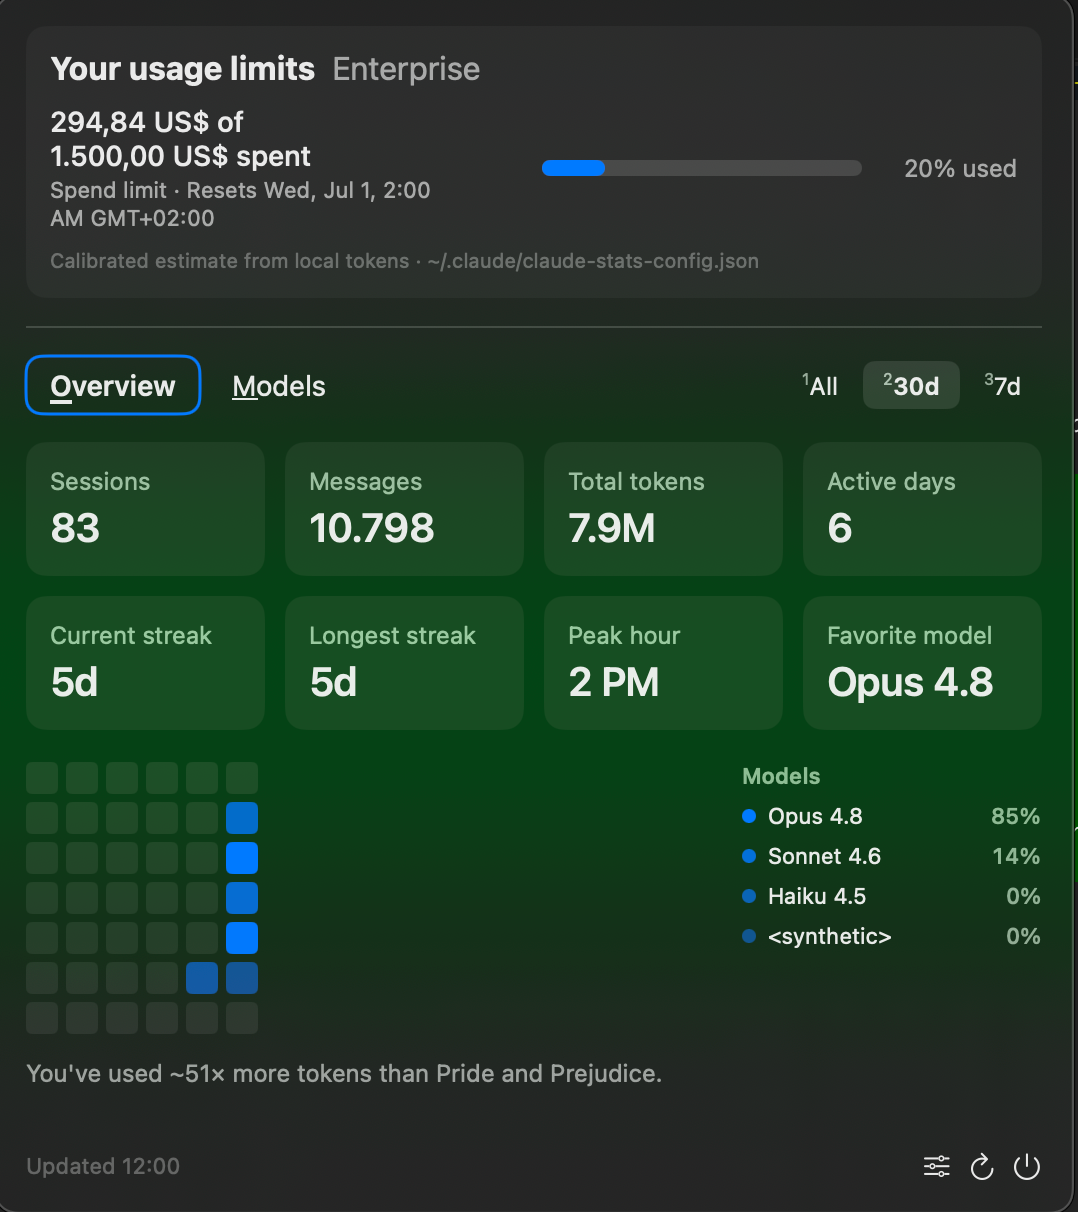
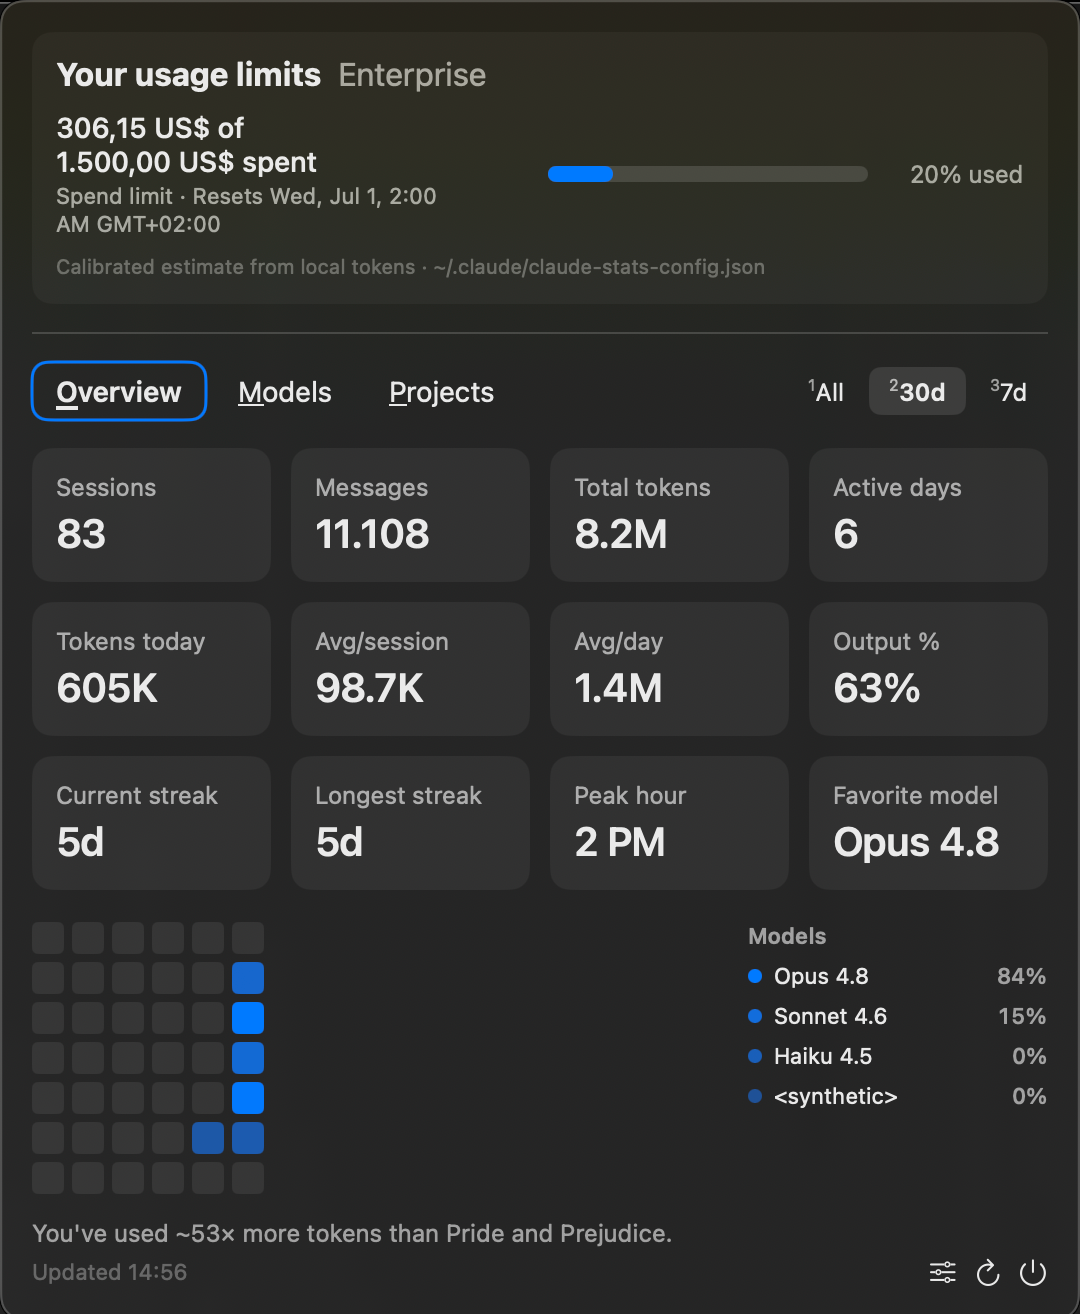
Update screenshot and README for 3-tab layout

diff --git a/README.md b/README.md
@@ -10,19 +10,25 @@ Claude Code writes every conversation to JSONL files under `~/.claude/projects/`
 
 ## What it shows
 
+**Usage limits panel** (always visible)
+- Estimated spend for the current billing period vs your plan limit
+- Progress bar + % used, next reset date
+
 **Overview tab**
 - Sessions, messages, total tokens, active days
-- Current and longest daily streaks
-- Peak coding hour, favourite model
-- Activity heatmap (7d / 30d / all-time)
+- Tokens today, avg tokens per session, avg tokens per day
+- Output % — fraction of tokens that are Claude's responses vs context
+- Current and longest daily streaks, peak coding hour, favourite model
+- Activity heatmap (7d / 30d / all-time) with compact model breakdown
 - Fun comparison: how many times your token usage equals *Pride and Prejudice*
 
 **Models tab**
-- Per-model token and message breakdown with relative bar chart
+- Per-model cost estimate, token bar with input/output gradient split
+- Input and output token counts per model, message count
 
-**Usage limits panel**
-- Estimated spend for the current billing period vs your plan limit
-- Days until next reset
+**Projects tab**
+- Per-repo token usage, sessions, and estimated cost
+- Sorted by token consumption; worktree sessions grouped under parent project
 
 ## How the cost estimate works
 
@@ -97,11 +103,12 @@ Click the menu-bar icon to open the popup. The app reads `~/.claude/projects/**/
 
 | Shortcut | Action |
 |----------|--------|
-| `←` `↑`  | Switch to Overview tab |
-| `→` `↓`  | Switch to Models tab |
-| `O`      | Switch to Overview tab |
-| `M`      | Switch to Models tab |
-| `1` `2` `3` | Switch time window (7d / 30d / All) |
+| `←` `↑`  | Previous tab |
+| `→` `↓`  | Next tab |
+| `O`      | Overview tab |
+| `M`      | Models tab |
+| `P`      | Projects tab |
+| `1` `2` `3` | Switch time window (All / 30d / 7d) |
 | `Esc`    | Close popup |
 
 Use the time window buttons to scope stats to the last 7 days, 30 days, or all time. Billing-period spend is always calculated from the full history regardless of the selected window.
@@ -114,7 +121,7 @@ A Raycast Script Command is included in `raycast/claude-stats.sh`. It toggles th
 
 1. Open Raycast → Settings → Extensions → Script Commands → Add Directory
 2. Point it at the `raycast/` folder in this repo (or wherever you cloned it)
-3. The command "Claude Stats" will appear — assign a hotkey if you want instant access
+3. The command "Toggle Claude Stats Open/Close" will appear — assign a hotkey for instant access
 
 The script uses the `claudestats://toggle` URL scheme registered by the app. The app must be running (it has no dock icon — launch it once from `/Applications` and it lives in the menu bar).
 
